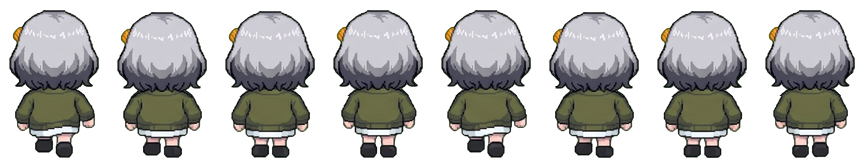
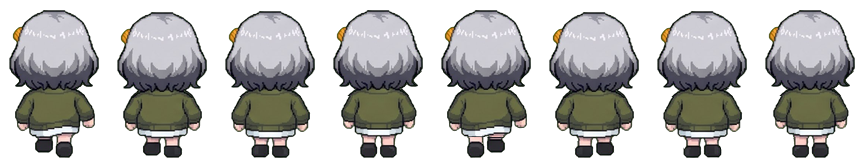
정면·뒷모습 걷기: 왼발·오른발이 번갈아 나가게 (뒤쪽 반 주기는 다리를 좌우 반전)
Gemini 그림은 8칸 내내 같은 발만 들어서 한 발로 걷는 것처럼 보였음.

Claude-Session: https://claude.ai/code/session_01MBgVgKbFxkEXND4zuEcjdV

diff --git a/tools/sprite_cleanup/clean_chroma.py b/tools/sprite_cleanup/clean_chroma.py
@@ -305,6 +305,22 @@ def steady_head(path, n, cw, ch, opt):
         top = np.nonzero((a[..., 3] > 128).any(1))[0][0]
         return top + hair_height(f) if opt.get("back") else chin_rows(f)[1]
 
+    if opt.get("alt_legs"):
+        # 정면·뒷모습: Gemini가 한 발만 드는 그림을 그려서 한 발로만 걷는 것처럼 보임.
+        # 뒤쪽 반 주기는 앞쪽 반 주기의 다리(치마 밑단 아래)를 좌우 반전해 써서 왼발·오른발이 번갈아 나가게 함
+        half = n // 2
+        for i in range(half, n):
+            a = np.array(fs[i - half]).copy()
+            al = a[..., 3] > 128
+            r, g, b = a[..., 0].astype(int), a[..., 1].astype(int), a[..., 2].astype(int)
+            white = al & (r > 215) & (g > 215) & (b > 215)
+            hem = np.nonzero(white.sum(1) >= 6)[0].max() - 3          # 원피스 밑단 조금 위부터 (원피스는 좌우 대칭이라 같이 뒤집어도 됨)
+            legs = a[hem:].copy()
+            xs = np.nonzero((legs[..., 3] > 128).any(0))[0]
+            x0, x1 = xs[0], xs[-1] + 1
+            a[hem:, x0:x1] = legs[:, x0:x1][:, ::-1]
+            fs[i] = Image.fromarray(a, "RGBA")
+
     chins = [chin(f) for f in fs]
     head = fs[0].crop((0, 0, cw, max(chins) + 5))
     bob = opt.get("bob", [0] * n)
